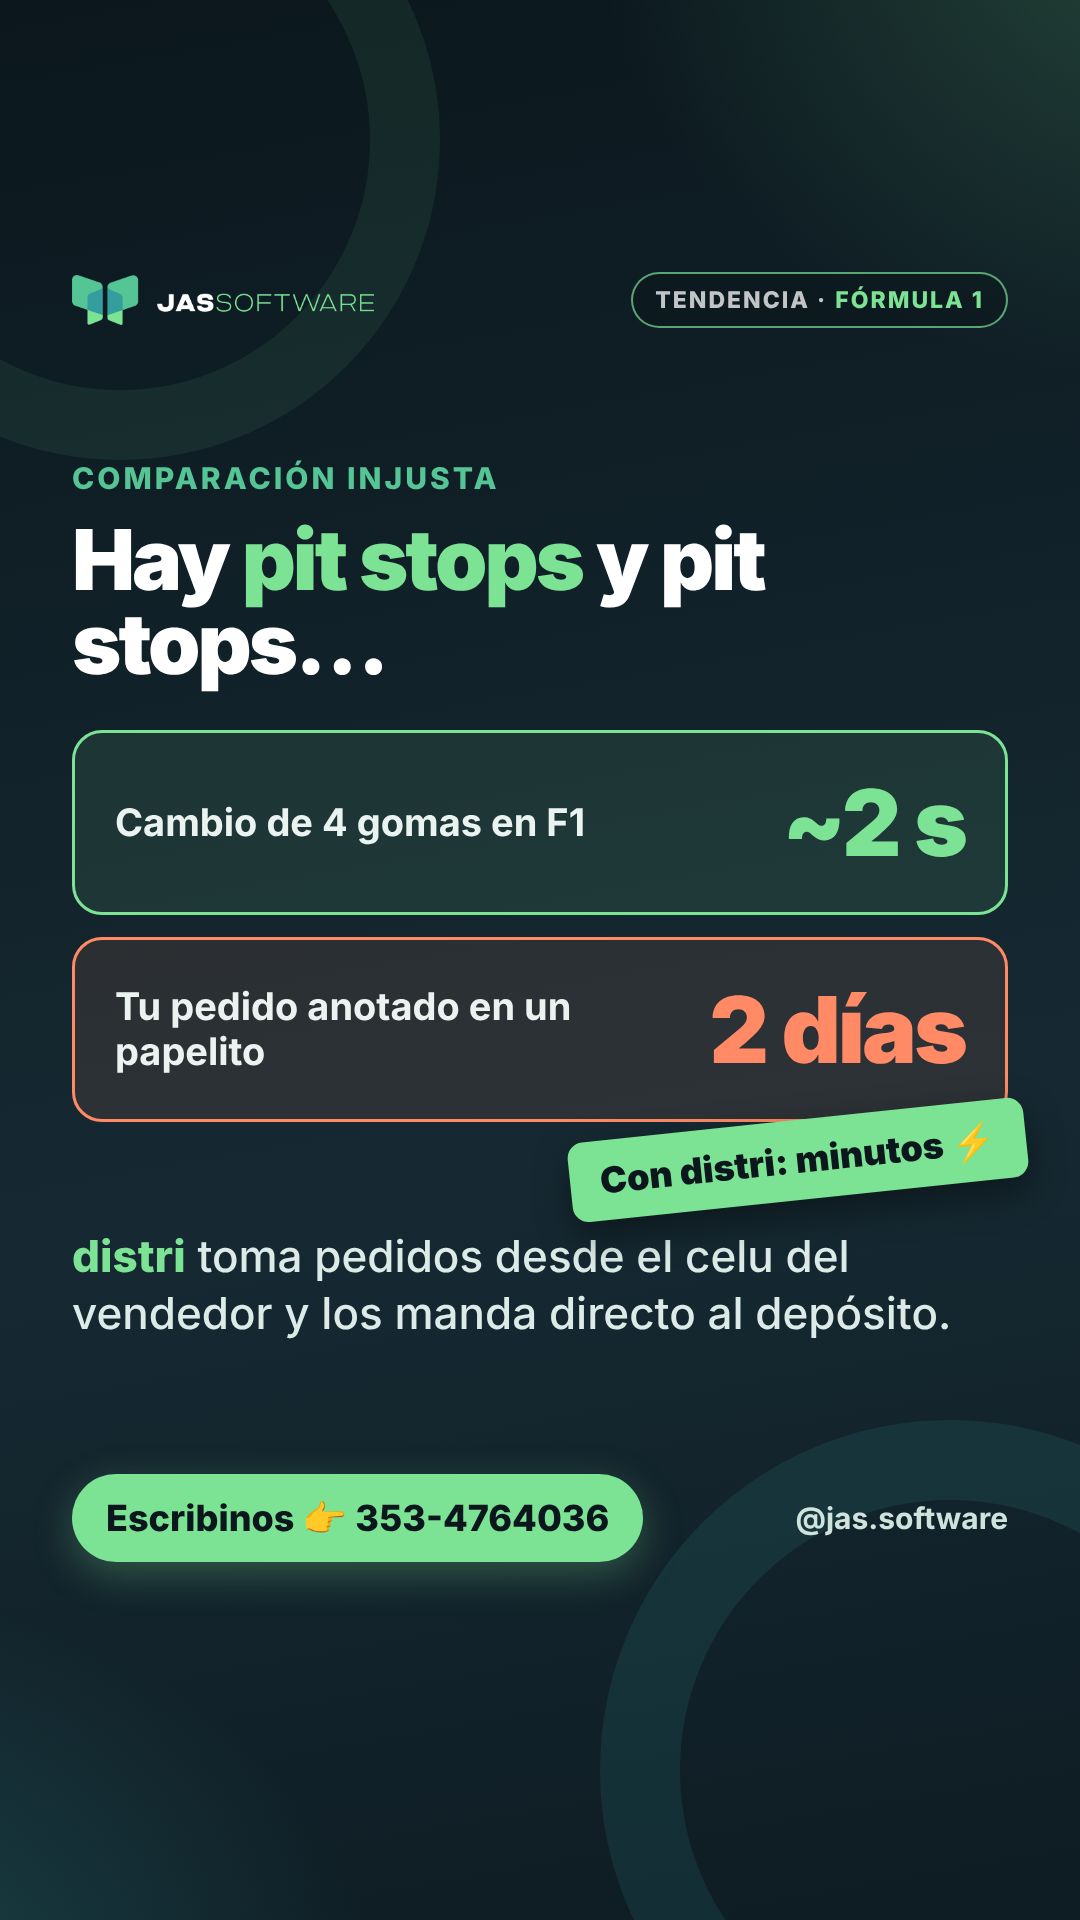
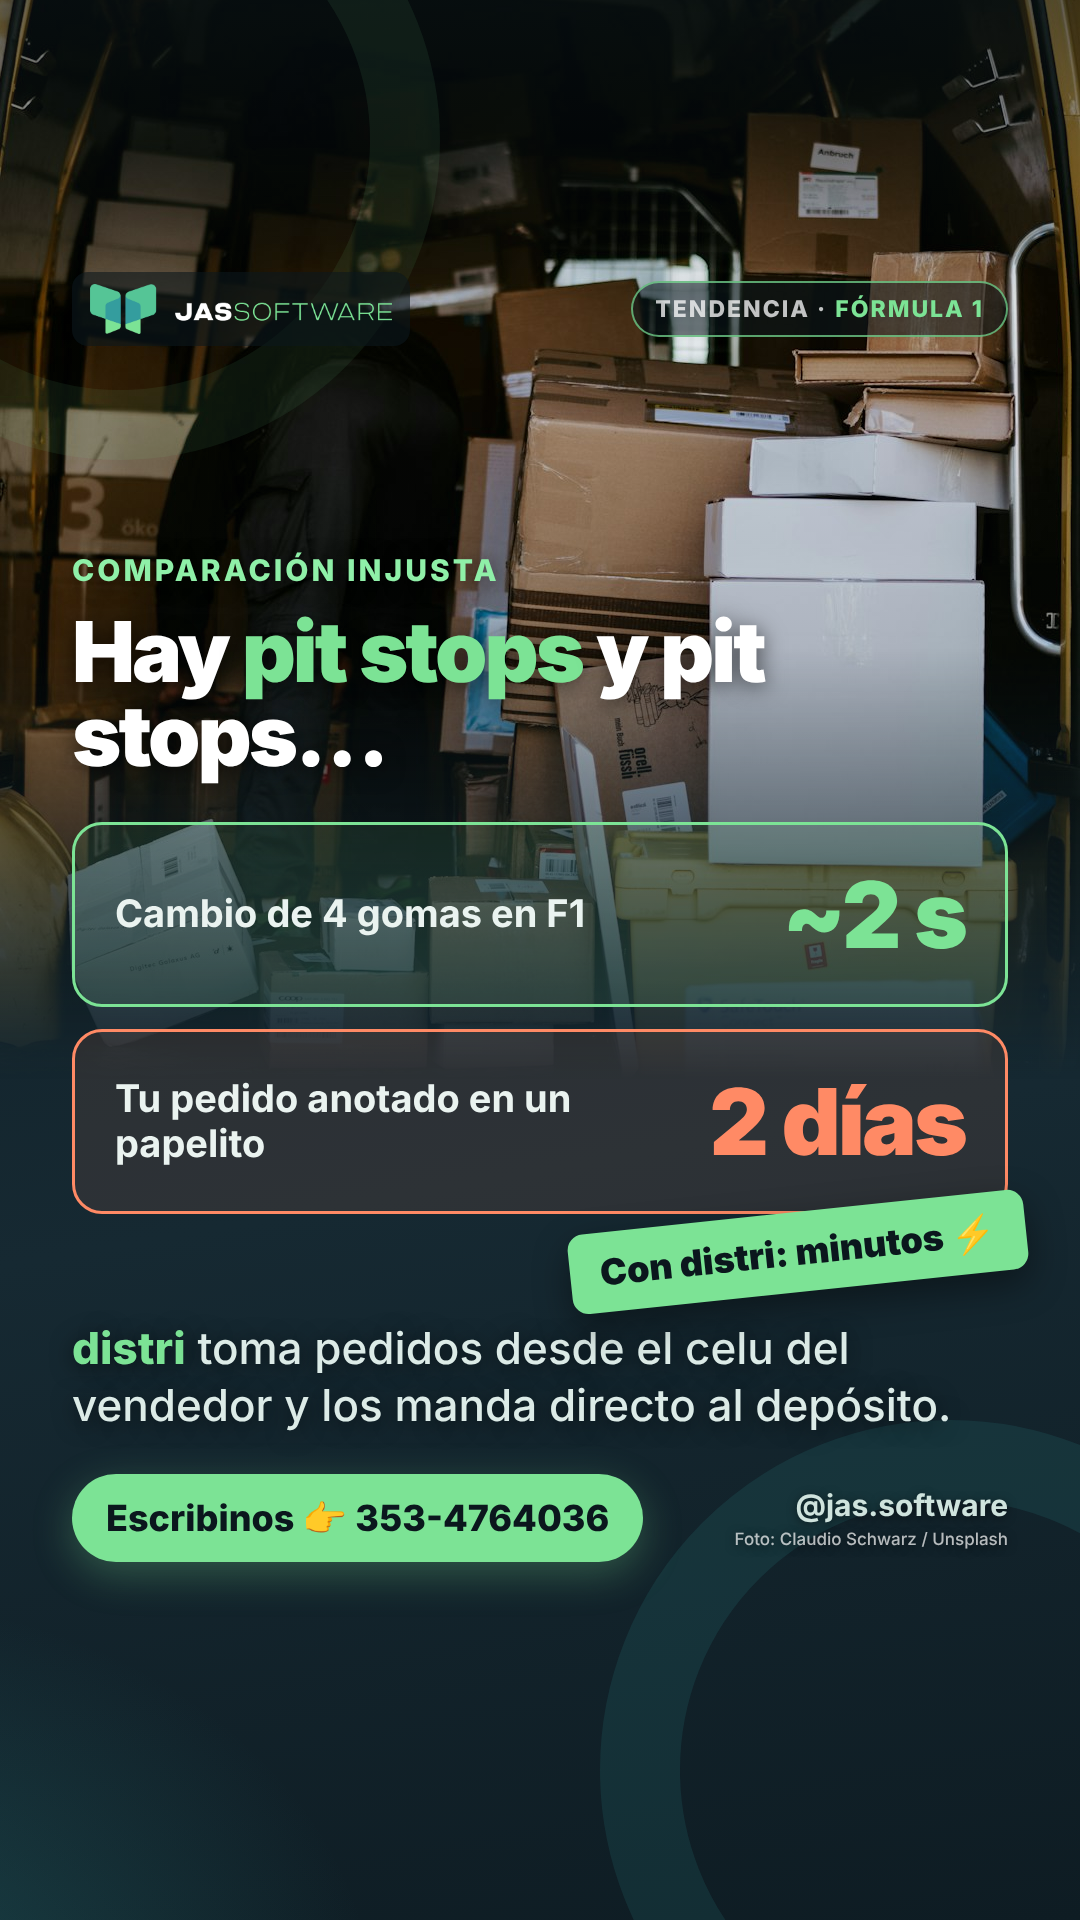
Historias tendencias 2026-11-22: placas con foto realista
Claude-Session: https://claude.ai/code/session_016wUz3iWvCjgc1CKUyr2rXS

diff --git a/plantilla/gen_historia.py b/plantilla/gen_historia.py
@@ -12,7 +12,10 @@ historias.json: lista de objetos. Campos comunes:
   cta      mini CTA (ej. "Escribinos 👉 353-4764036")
   product  (opcional) producto/servicio JAS que se destaca (ej. "distri")
   fs       (opcional) tamaño del hook en px
-  photo / credit (opcional) foto de fondo local + nombre del fotógrafo de Unsplash
+  photo / credit (recomendado) foto realista local (Unsplash, 1080x1920) + nombre del fotógrafo
+  photo_style (opcional) cómo se integra la foto: "full" (fondo completo con velo),
+           "hero" (foto protagonista, texto abajo), "top" (foto arriba que se funde),
+           "split" (foto arriba con corte diagonal). Default según layout.
 Campos por layout:
   titular: bigword (palabra gigante de fondo)
   tweet:   time (ej. "11:42 · 22 nov. 2026")
@@ -37,7 +40,18 @@ body{width:1080px;height:1920px;overflow:hidden;position:relative;font-family:In
  radial-gradient(900px 700px at -15% 105%, rgba(52,157,158,.30), transparent 60%),linear-gradient(170deg,#0B171D,#162932 60%,#0E1C23)}
 .deco{position:absolute;inset:0;overflow:hidden;z-index:0}
 .photo{position:absolute;inset:0;background-size:cover;background-position:center;z-index:0}
-.photo:after{content:"";position:absolute;inset:0;background:linear-gradient(180deg,rgba(11,23,29,.55),rgba(11,23,29,.82) 45%,rgba(11,23,29,.95))}
+.photo:after{content:"";position:absolute;inset:0}
+.ph-full .photo:after{background:linear-gradient(180deg,rgba(11,23,29,.55),rgba(11,23,29,.40) 30%,rgba(11,23,29,.62) 60%,rgba(11,23,29,.90))}
+.ph-hero .photo:after{background:linear-gradient(180deg,rgba(11,23,29,.55),rgba(11,23,29,.05) 17%,rgba(11,23,29,.5) 30%,rgba(11,23,29,.9) 45%,rgba(11,23,29,.97))}
+.ph-full.tweet .photo:after{background:linear-gradient(180deg,rgba(11,23,29,.5),rgba(11,23,29,.15) 35%,rgba(11,23,29,.2) 60%,rgba(11,23,29,.7))}
+.ph-top .photo{bottom:auto;height:1080px;-webkit-mask-image:linear-gradient(180deg,#000 60%,transparent)}
+.ph-top .photo:after{background:linear-gradient(180deg,rgba(11,23,29,.5),rgba(11,23,29,0) 28%,rgba(11,23,29,.3))}
+.ph-split .photo{bottom:auto;height:760px;z-index:1;clip-path:polygon(0 0,100% 0,100% 100%,0 80%)}
+.ph-split .photo:after{background:linear-gradient(180deg,rgba(11,23,29,.55),rgba(11,23,29,.0) 35%,rgba(11,23,29,.15))}
+.ph-hero main,.ph-top main,.ph-split main{justify-content:flex-end;padding-bottom:40px}
+.has-photo h1,.has-photo .kicker,.has-photo .punch{text-shadow:0 3px 22px rgba(0,0,0,.6)}
+.has-photo .kicker{color:#8FF0A8}
+.has-photo header img{background:rgba(11,23,29,.6);padding:12px 18px;border-radius:16px;height:74px}
 .safe{position:absolute;left:72px;right:72px;top:__ST__px;bottom:__SB__px;display:flex;flex-direction:column;z-index:2}
 header{display:flex;align-items:center;justify-content:space-between;padding-top:22px}
 header img{height:50px}
@@ -47,7 +61,8 @@ header img{height:50px}
 main{flex:1;display:flex;flex-direction:column;justify-content:center;min-height:0}
 footer{display:flex;align-items:center;justify-content:space-between;gap:20px;padding-bottom:18px}
 .cta{background:#7CE395;color:#0B171D;font-weight:800;font-size:36px;padding:22px 34px;border-radius:60px;box-shadow:0 12px 40px rgba(124,227,149,.28);white-space:nowrap}
-.handle{font-weight:700;font-size:30px;color:#cfe3dd;white-space:nowrap}
+.handle{font-weight:700;font-size:30px;color:#cfe3dd;white-space:nowrap;text-align:right;text-shadow:0 2px 10px rgba(0,0,0,.5)}
+.handle small{display:block;font-weight:500;font-size:17px;color:rgba(255,255,255,.7);margin-top:6px}
 .kicker{color:#55C596;font-weight:800;font-size:30px;letter-spacing:3px;text-transform:uppercase;margin-bottom:22px}
 h1{font-weight:900;line-height:1.0;letter-spacing:-3px}
 h1 em,.punch b{font-style:normal;color:#7CE395}
@@ -61,7 +76,6 @@ body.dato header img{background:#0B171D;padding:14px 20px;border-radius:18px;hei
 body.dato .chip{background:#0B171D;border-color:#0B171D}
 body.dato .cta{background:#0B171D;color:#7CE395;box-shadow:0 12px 40px rgba(0,0,0,.3)}
 body.dato .prod{background:rgba(11,23,29,.55);border-color:rgba(11,23,29,.2)}
-.credit{position:absolute;right:72px;top:__CB__px;font-size:18px;color:rgba(255,255,255,.65);z-index:2}
 """
 
 def esc(s):
@@ -199,21 +213,29 @@ def data_uri(path):
     return f"data:{mime};base64," + base64.b64encode(p.read_bytes()).decode()
 
 
+PHOTO_STYLE = dict(titular="hero", tweet="full", meme="top", encuesta="full", dato="split", split="top")
+
+
 def page(s, i):
     rnd = random.Random(1000 + i)
     deco, main = LAYOUTS[s["layout"]](s, rnd)
     photo = credit = ""
+    cls = s["layout"]
     if s.get("photo"):
-        photo = f'<div class="photo" style="background-image:url(\'{data_uri(s["photo"])}\')"></div>'
-        credit = f'<div class="credit">Foto: {html.escape(s.get("credit",""))} / Unsplash</div>'
-    css = CSS.replace("__ST__", str(SAFE_TOP)).replace("__SB__", str(SAFE_BOTTOM)).replace("__CB__", str(SAFE_TOP + 100))
-    return f"""<!doctype html><html><head><meta charset="utf-8"><style>{css}</style></head><body class="{s['layout']}">
+        st = s.get("photo_style") or PHOTO_STYLE[s["layout"]]
+        cls += f" has-photo ph-{st}"
+        if st in ("full", "hero") and s["layout"] != "dato":
+            deco = ""  # la foto es el fondo: sin decoración encima
+        photo = f'<div class="photo" style="background-image:url(\'{data_uri(s["photo"])}\');background-position:{s.get("photo_pos","center")}"></div>'
+        credit = f'<small>Foto: {html.escape(s.get("credit",""))} / Unsplash</small>'
+    css = CSS.replace("__ST__", str(SAFE_TOP)).replace("__SB__", str(SAFE_BOTTOM))
+    return f"""<!doctype html><html><head><meta charset="utf-8"><style>{css}</style></head><body class="{cls}">
 {photo}{deco}
 <div class="safe">
  <header><img src="{LOGO}"><div class="chip"><i>Tendencia ·</i>{s.get('trend','')}</div></header>
  <main>{main}</main>
- <footer><div class="cta">{s.get('cta','Escribinos 👉 353-4764036')}</div><div class="handle">@jas.software</div></footer>
-</div>{credit}
+ <footer><div class="cta">{s.get('cta','Escribinos 👉 353-4764036')}</div><div class="handle">@jas.software{credit}</div></footer>
+</div>
 </body></html>"""
 
 

diff --git a/README.md b/README.md
@@ -17,7 +17,7 @@ Generar: `python3 -I plantilla/gen.py slides.json out && NODE_PATH=$(npm root -g
 
 ## Historias de tendencias (9:16)
 
-- `plantilla/gen_historia.py`: genera historias 1080x1920 desde un `historias.json` (layouts: titular, tweet, meme, encuesta, dato, split), respetando las zonas seguras de Instagram (250 px arriba, 340 px abajo).
+- `plantilla/gen_historia.py`: genera historias 1080x1920 desde un `historias.json` (layouts: titular, tweet, meme, encuesta, dato, split; cada placa lleva una foto realista de Unsplash integrada con `photo`, `credit` y `photo_style`), respetando las zonas seguras de Instagram (250 px arriba, 340 px abajo).
 - `plantilla/shot_story.js`: como `shot.js` pero a 1080x1920 (o `SHOT_W`/`SHOT_H`).
 - Imágenes en `historias-tendencias/AAAA-MM-DD/` (`historia_AAAA-MM-DD_N.png`) con su `historias.json`.
 - Generar: `python3 -I plantilla/gen_historia.py historias.json out && NODE_PATH=$(npm root -g) node plantilla/shot_story.js $(ls $PWD/out/*.html)`
